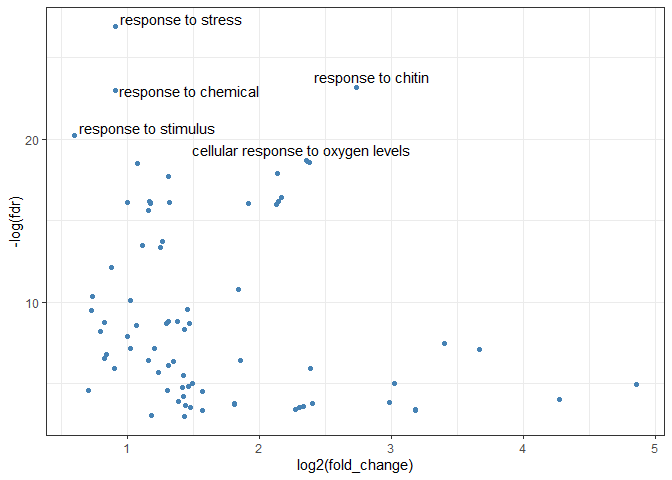
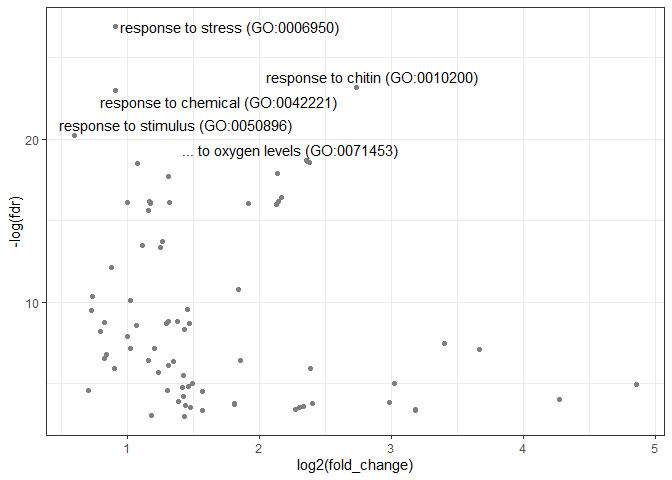
Removed facetting, introduced term truncation

diff --git a/README.md b/README.md
@@ -27,7 +27,19 @@ example dataset provided with the package. Note, that we specify the
 `oracl::oraclient()`. Other options are of course `ont = mf` (Molecular
 Function) and `ont = cc` (Cellular Component).
 
-    ## [1] "[oraclient] Overrepresentation test. Ontology: bp, taxon: Athaliana, FISHER test and FDR correction. P-threshold is 0.05, FDR threshold is 0.05."
+``` r
+# load package
+library(oracl)
+
+# Get a set of AGI-codes.
+gs <- oracl:::GS01
+
+# Get a background geneset (optional)
+bg <- oracl:::background
+
+# conduct GO-Term ORA via PANTHER
+bp.df <- oraclient(gs, bg = bg, ont = "bp", fdr.thresh = 0.05)
+```
 
     ## Joining, by = "GO_ID"
 
@@ -41,10 +53,16 @@ library(ggplot2)
 
 # Make a plot
 volcano.p = volcanoracl(bp.df)
+```
 
+    ## Adding missing grouping variables: `grouping`
+
+    ## Joining, by = c("label", "grouping")
+
+``` r
 # The plot `volcano.p` is a ggplot-object.
 # We can change its attributes!
-volcano.p + scale_colour_manual(values = "steelblue")
+volcano.p + scale_colour_gradientn(colours = "steelblue")
 ```
 
 ![](README_files/figure-gfm/unnamed-chunk-2-1.png)<!-- -->
@@ -89,19 +107,34 @@ bp.ls.df <- oracl_list_to_df(bp.ls)
 ### Make a facetted dotplot (One facet per group)
 
 We can now plot overrepresented GO-Terms using group information in the
-column `bp.df$grouping`. We can either make a facetted dotplot:
+column `bp.df$grouping`. Here, we want to facet the plot according to
+the grouping variable (stored in `bp.df$grouping`). We also specify the
+desired number of columns, the position of the facet label, and whether
+or not we only include labels found in each dataset (change these things
+according to your data\!):
 
 ``` r
-oraclot(bp.ls.df, top_n = 20) + scale_color_viridis_c()
+oraclot(bp.ls.df, top_n = 5) + 
+    facet_wrap(grouping ~ ., ncol = 1, strip.position = "right", scales = "free_y") +
+    scale_color_viridis_c()
 ```
+
+    ## Adding missing grouping variables: `grouping`
+
+    ## Joining, by = c("label", "grouping")
 
 ![](README_files/figure-gfm/unnamed-chunk-4-1.png)<!-- -->
 
-Or we can make a facetted volcano plot:
+We can also make a facetted volcano plot:
 
 ``` r
-volcanoracl(bp.ls.df, top_n = 20)
+volcanoracl(bp.ls.df, top_n = 5) +
+    facet_wrap(grouping ~ ., nrow = 1)
 ```
+
+    ## Adding missing grouping variables: `grouping`
+
+    ## Joining, by = c("label", "grouping")
 
 ![](README_files/figure-gfm/unnamed-chunk-5-1.png)<!-- -->
 
